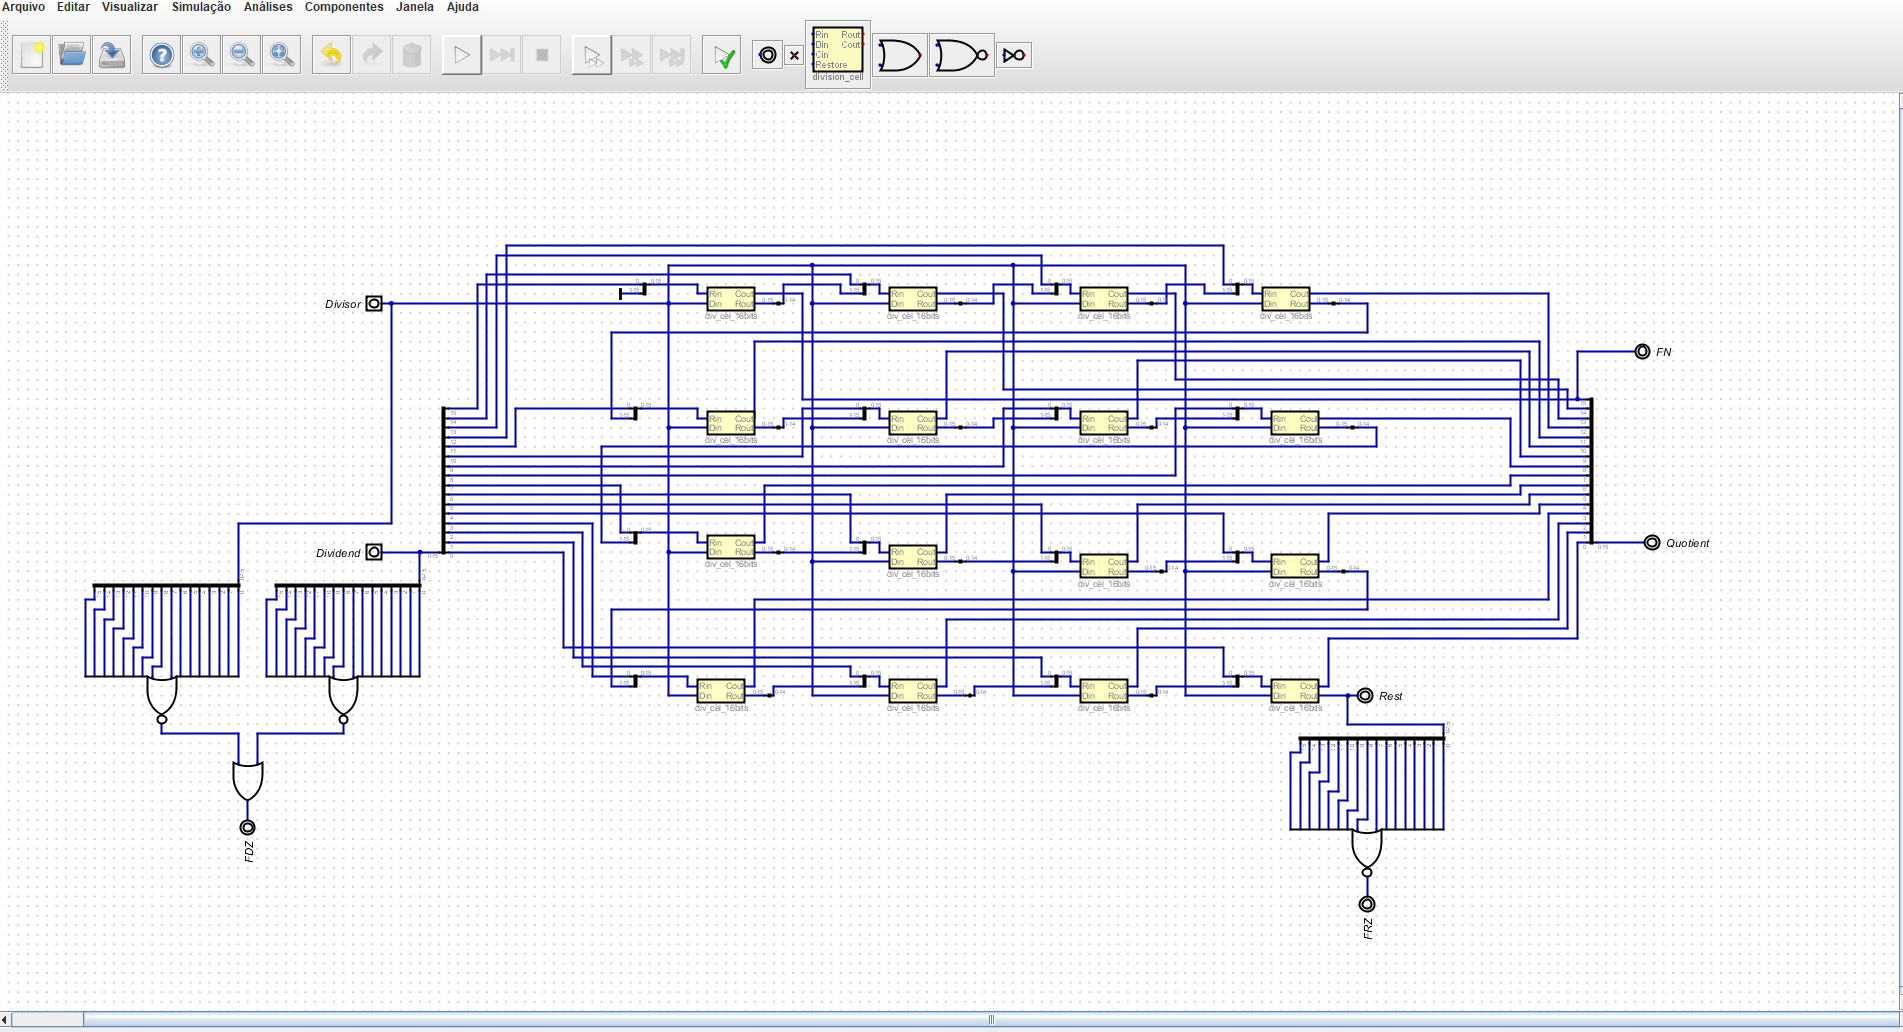
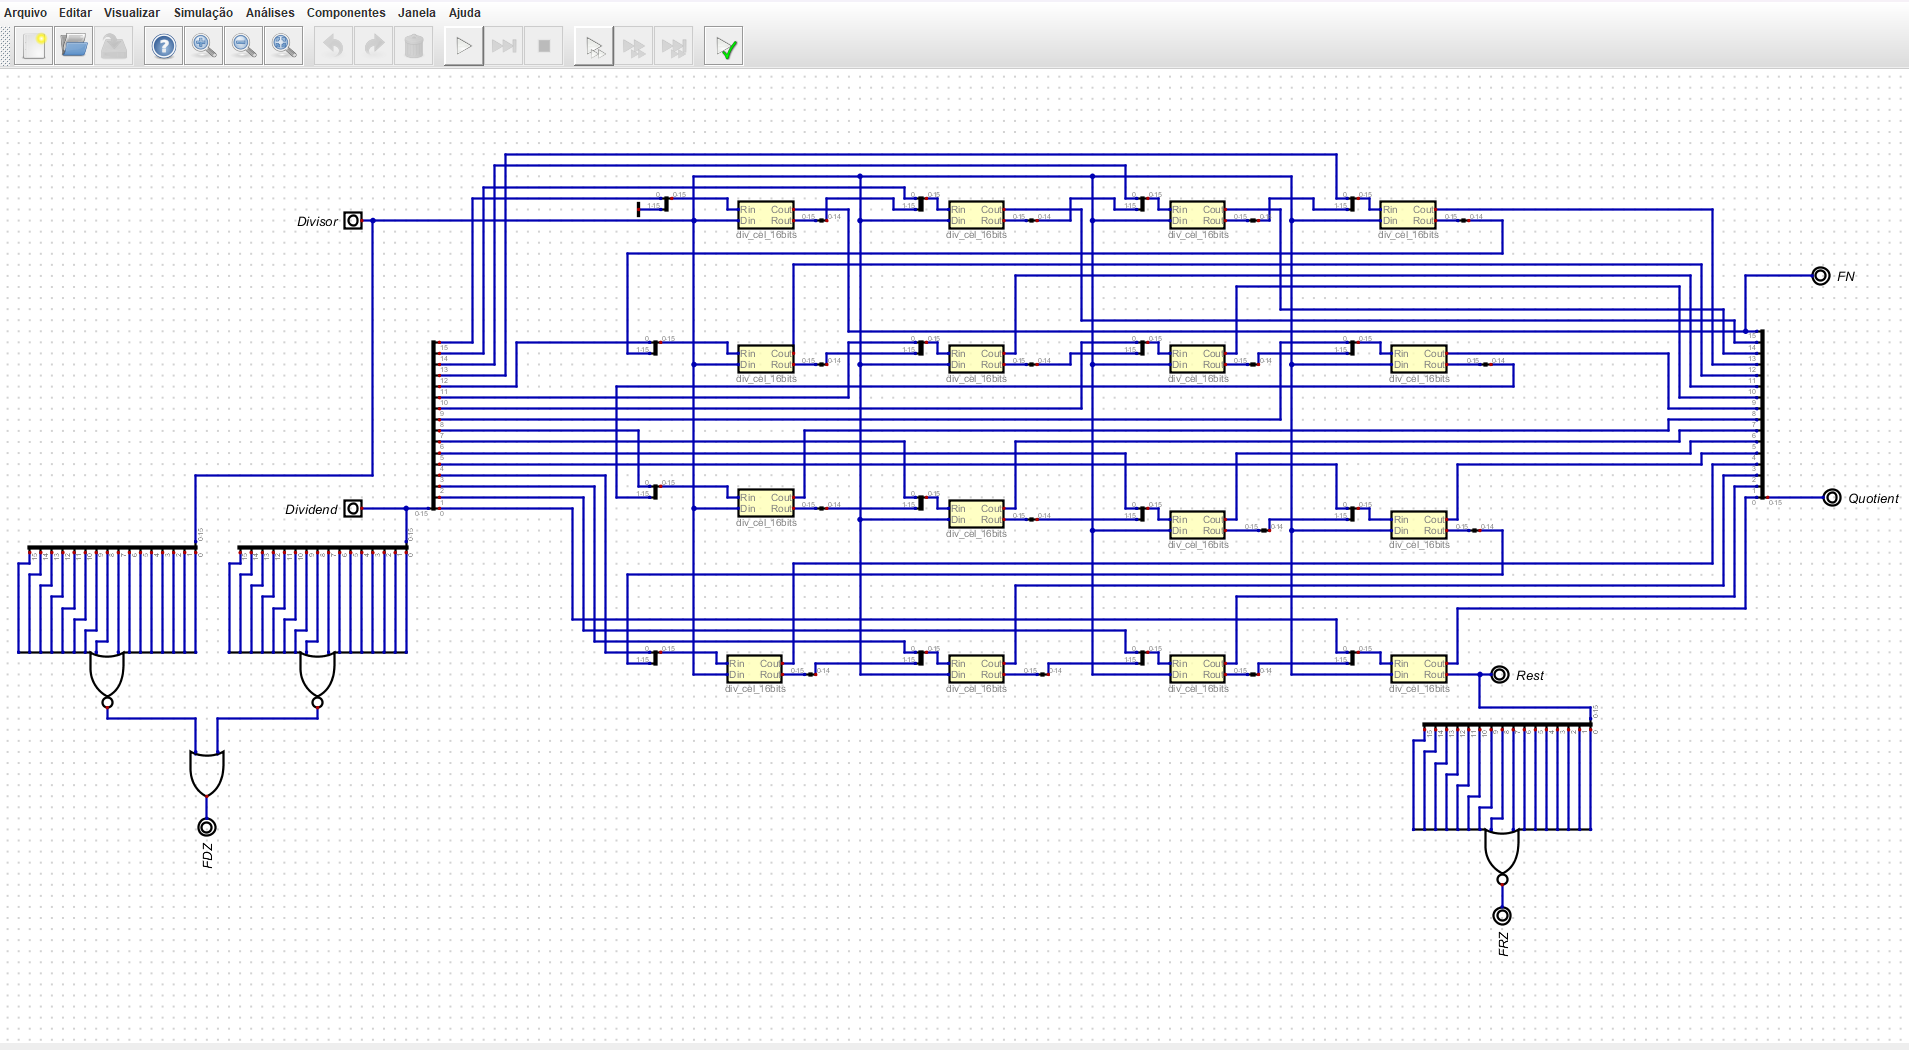
Add remaining block screenshots (shifters, decoder_3to8, tristate, MDU, mux_2_1_16bits, div_cell_16_bits)
Also refreshes full_divider_16_bits.png and drops its leftover Status
section (already superseded by the 2026-09-03 docs cleanup).

Claude-Session: https://claude.ai/code/session_01N7eQDh4G82LCxyy1xt4D6A

Changed region(s): [[0.0, 0.0, 1.0, 1.0]]

diff --git a/mdu/full_divider_16_bits/full_divider_16_bits.md b/mdu/full_divider_16_bits/full_divider_16_bits.md
@@ -65,14 +65,3 @@ structure; faster schemes (carry-save, SRT) are a later optimisation.
 search paths in Digital (Edit → Settings) before simulating, or keep local
 copies.
 
-## Status
-
-Simulates correctly: `100 ÷ 7` → `Quotient = 14`, `Rest = 2`. Digital orders
-each cell's pins by the vertical position of its `In` / `Out` symbols, so the
-stacked cells expose their inputs in different orders
-(`div_cell_1_bit`: `Restore, Rin, Din, Cin`; `div_cell_4_bits`:
-`Cin, Rin, Din, Restore`; `div_cell_8_bits`: `Rin, Din, Cin, Restore`) — each
-parent's wiring is drawn to match its child's order. See `div_cell_1_bit.md`.
-
-Still to check: a few more vectors (`21 ÷ 7` → `FRZ = 1`; `x ÷ 0` → `FDZ = 1`;
-a case with the quotient's top bit set for `FN`).
